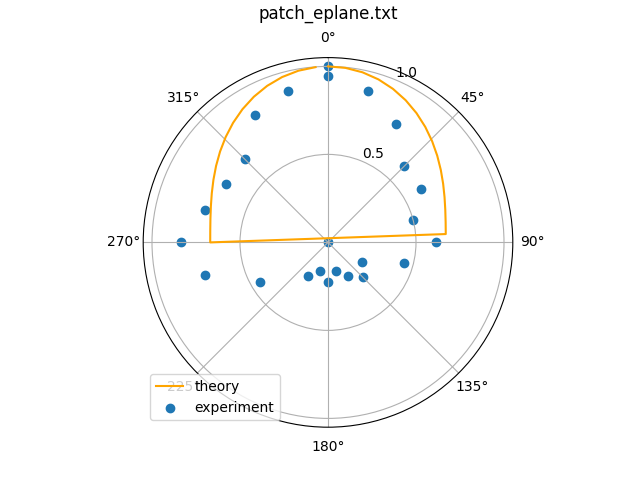
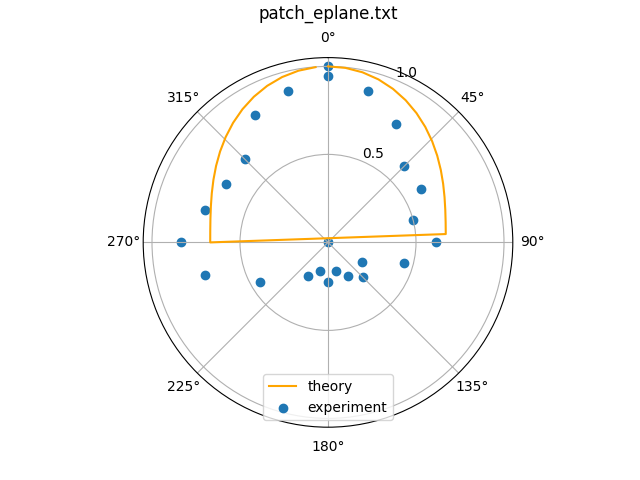
change location of legend

Changed region(s): [[0.25, 0.7812, 0.625, 0.875], [0.25, 0.8438, 0.2812, 0.875]]

diff --git a/polar_plot_patch_hplane.py b/polar_plot_patch_hplane.py
@@ -66,7 +66,7 @@ ax.set_theta_direction(-1)  # theta increasing clockwise
 ax.set_rticks([0.5, 1.0])  # Less radial ticks
 # ax.set_rlabel_position(-22.5)  # Move radial labels away from plotted line
 ax.grid(True)
-ax.legend(loc="upper left")
+ax.legend(loc="lower center")
 ax.set_title(filename, va='bottom')
 plt.savefig("plots/" + filename.replace("txt", "png"))
 # plt.show()

diff --git a/polar_plot_patch_eplane.py b/polar_plot_patch_eplane.py
@@ -69,7 +69,7 @@ ax.set_theta_direction(-1)  # theta increasing clockwise
 ax.set_rticks([0.5, 1.0])  # Less radial ticks
 # ax.set_rlabel_position(-22.5)  # Move radial labels away from plotted line
 ax.grid(True)
-ax.legend()
+ax.legend(loc="lower center")
 ax.set_title(filename, va='bottom')
 plt.savefig("plots/" + filename.replace("txt", "png"))
 # plt.show()
